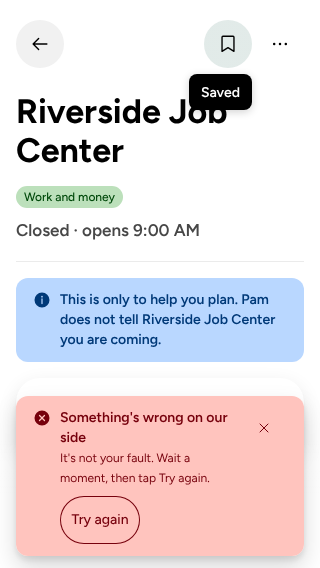
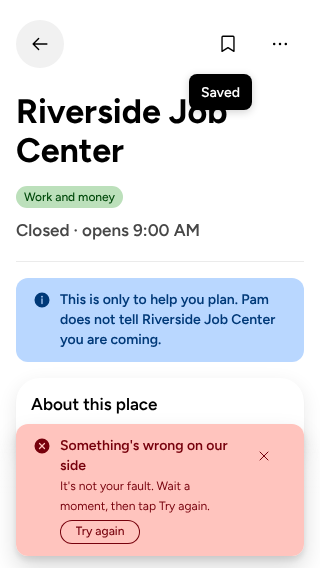
Alert buttons compact: 24px tall at the line's size, closer to the words
Claude-Session: https://claude.ai/code/session_01A3kdir46ErR2eyjDLFdzyW

Changed region(s): [[0.0312, 0.6884, 0.9688, 0.9577], [0.625, 0.0299, 0.8125, 0.1197]]

diff --git a/pam/apps/web/src/lib/StackBanner.tsx b/pam/apps/web/src/lib/StackBanner.tsx
@@ -3,7 +3,7 @@
 import { type ReactNode } from 'react';
 import * as stylex from '@stylexjs/stylex';
 import { Banner } from '@astryxdesign/core/Banner';
-import { colorVars, radiusVars, shadowVars, spacingVars } from '@astryxdesign/core/theme/tokens.stylex';
+import { colorVars, radiusVars, shadowVars, spacingVars, textSizeVars } from '@astryxdesign/core/theme/tokens.stylex';
 import { useI18n } from './i18n';
 
 /**
@@ -20,13 +20,20 @@ const styles = stylex.create({
   action: {
     color: colorVars['--color-text-red'],
     boxShadow: `inset 0 0 0 1px ${colorVars['--color-error']}`,
+    // Compact (Will, 23 October 21:47: "alert banner buttons can be much smaller, there too much too and bottom space"): about the height of its words,
+    // at the line's own 12px (--font-size-sm), with no padding above or below; 24px is the least a target may be (WCAG 2.5.8) and it keeps that.
+    fontSize: textSizeVars['--font-size-sm'],
+    // The app's 48px floor (globals.css) is a custom property, so the alert's buttons set their own.
+    '--pam-touch-target-min': spacingVars['--spacing-6'],
+    minHeight: spacingVars['--spacing-6'],
+    paddingBlock: 0,
     paddingInline: spacingVars['--spacing-2'],
     flexGrow: { default: 1, ':only-child': 0 },
     flexBasis: '5rem',
     minWidth: 'max-content',
   },
   // Side by side at one width when they fit, one above the other when a longer language's labels do not; never a word broken in two.
-  row: { display: 'flex', flexWrap: 'wrap', width: '100%', gap: spacingVars['--spacing-2'], marginBlockStart: spacingVars['--spacing-2'] },
+  row: { display: 'flex', flexWrap: 'wrap', width: '100%', gap: spacingVars['--spacing-2'], marginBlockStart: spacingVars['--spacing-1'] },
   backing: {
     width: '100%',
     backgroundColor: colorVars['--color-background-body'],

diff --git a/pam/docs/decisions/D-621-d-621-every-alert-is-astryx-s-banner-in-red-and-the-gate-screens.md b/pam/docs/decisions/D-621-d-621-every-alert-is-astryx-s-banner-in-red-and-the-gate-screens.md
@@ -38,3 +38,7 @@ Calm states announced as alerts; the opaque backing (if Astryx gives `Banner` an
 ## "Try again" is always a button that does something (Mira, 19 October 05:40)
 
 The offline, timeout and server lines end "then tap Try again", but the banner only drew the button when a caller passed `options.retry`, and almost no call site did. Now: (1) `options.retry` runs as before; (2) with none, Try again presses the control that failed again, as the person would by hand (`source`: the one the caller named, else the one pressed in the last 20 seconds, since a save disables its button and focus has gone to the page), only if it is still on the page and not disabled when pressed; (3) else `options.refresh`; (4) else no button, and a dev build logs `console.error` naming the action. `sourceOf` is in the lazy `classifyFailure.ts`; only the press note is in the root. Test: im-here.spec "a failed I'm here offers Try again although the screen passes no retry" (no button before). Signed-out, Show the latest and Get help are unchanged.
+
+## Smaller alert buttons (Will, 23 October 21:47)
+
+"alert banner buttons can be much smaller, there too much too and bottom space." The buttons are now 24px tall at 12px text (Banner's own line size), no vertical padding, 8px between them and 4px under the line: 24px is the least a target may be (WCAG 2.5.8 AA). They were in fact still 48px tall before: the app's global floor (`--pam-touch-target-min`, globals.css) outranks a component's `minHeight`, so the alert's buttons set that custom property themselves, as New trip does. Two buttons stay equal width, one sits alone.
